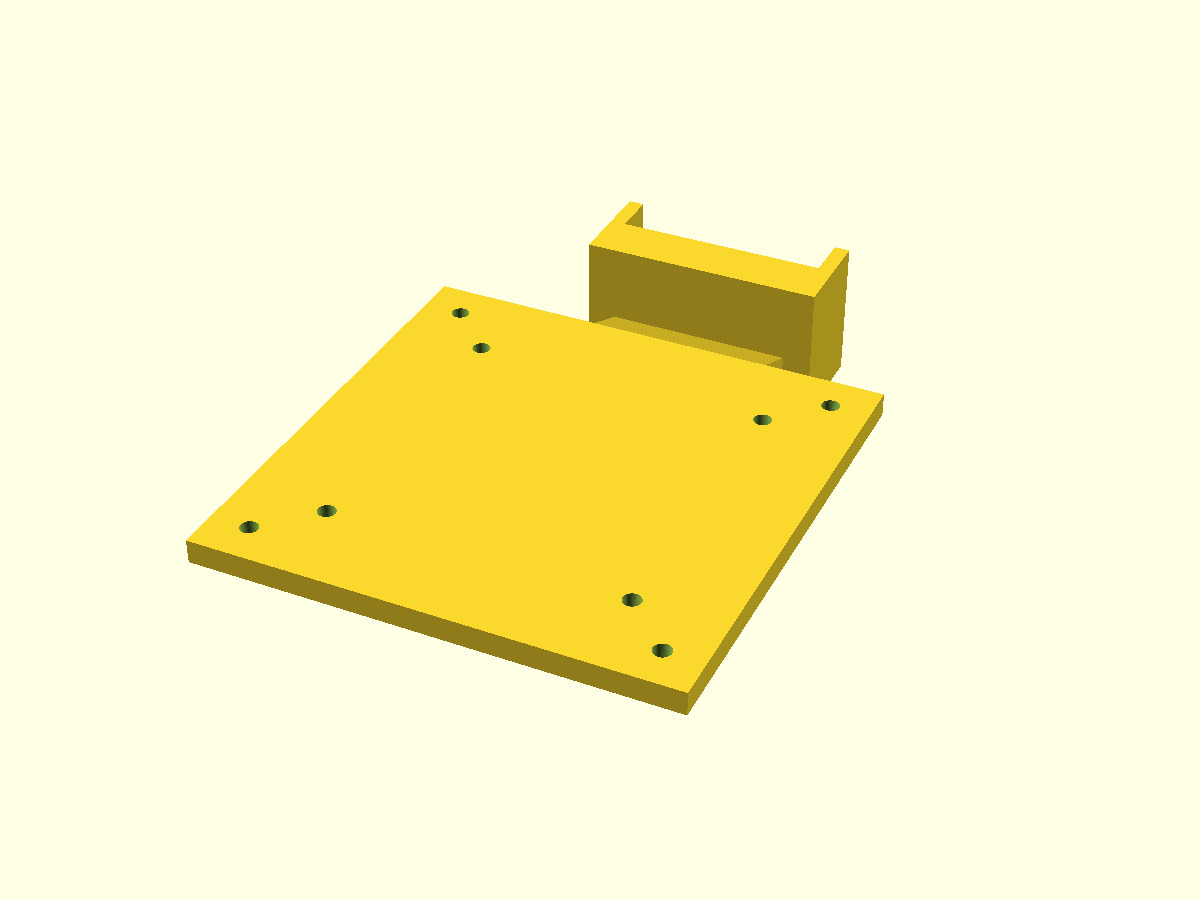
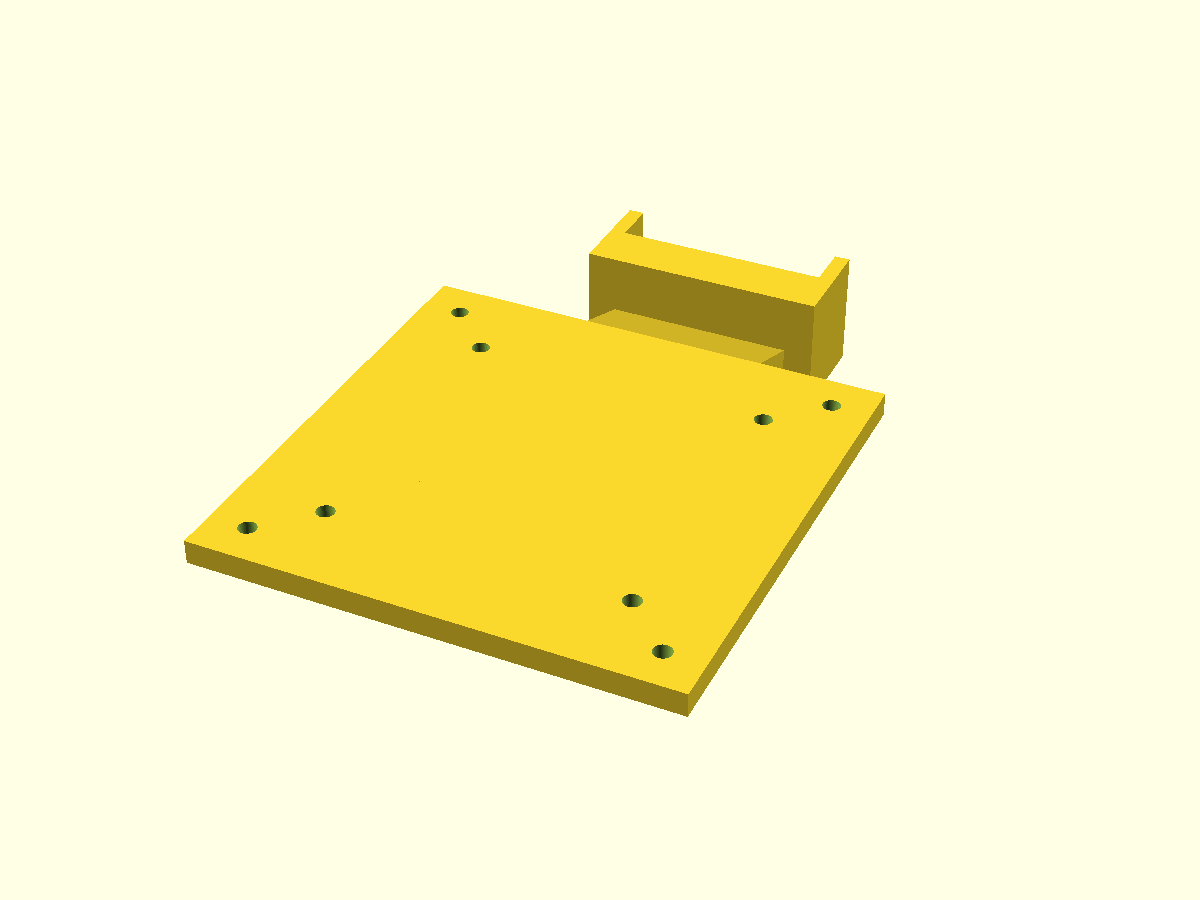
fix: reduce clamp pad depth to 30 mm

diff --git a/docs/tx02-vesa-cradle-r2.html b/docs/tx02-vesa-cradle-r2.html
@@ -2284,7 +2284,7 @@ html&gt;body{padding:0}&lt;/style&gt;
         &lt;div class=&quot;dimension&quot;&gt;&lt;span&gt;灯条长度&lt;/span&gt;&lt;strong&gt;448 mm&lt;/strong&gt;&lt;/div&gt;
         &lt;div class=&quot;dimension&quot;&gt;&lt;span&gt;1S 夹具占地&lt;/span&gt;&lt;strong&gt;约 68 × 62&lt;/strong&gt;&lt;/div&gt;
         &lt;div class=&quot;dimension&quot;&gt;&lt;span&gt;底座底部平面&lt;/span&gt;&lt;strong&gt;48 mm&lt;/strong&gt;&lt;/div&gt;
-        &lt;div class=&quot;dimension&quot;&gt;&lt;span&gt;卡扣受力跨度&lt;/span&gt;&lt;strong&gt;36 mm&lt;/strong&gt;&lt;/div&gt;
+        &lt;div class=&quot;dimension&quot;&gt;&lt;span&gt;卡扣受力跨度&lt;/span&gt;&lt;strong&gt;30 mm&lt;/strong&gt;&lt;/div&gt;
         &lt;div class=&quot;dimension&quot;&gt;&lt;span&gt;承托片厚度&lt;/span&gt;&lt;strong&gt;14 mm&lt;/strong&gt;&lt;/div&gt;
         &lt;div class=&quot;dimension&quot;&gt;&lt;span&gt;防横移挡肩&lt;/span&gt;&lt;strong&gt;4 × 12 mm&lt;/strong&gt;&lt;/div&gt;
         &lt;div class=&quot;dimension&quot;&gt;&lt;span&gt;挡肩内间距&lt;/span&gt;&lt;strong&gt;55 mm&lt;/strong&gt;&lt;/div&gt;
@@ -2406,7 +2406,7 @@ html&gt;body{padding:0}&lt;/style&gt;
 
         &lt;text class=&quot;dim-label&quot; x=&quot;131&quot; y=&quot;35&quot; text-anchor=&quot;middle&quot;&gt;60&lt;/text&gt;
         &lt;text class=&quot;dim-label&quot; x=&quot;207&quot; y=&quot;110&quot;&gt;14&lt;/text&gt;
-        &lt;text class=&quot;dim-label&quot; x=&quot;149&quot; y=&quot;144&quot; text-anchor=&quot;middle&quot;&gt;36&lt;/text&gt;
+        &lt;text class=&quot;dim-label&quot; x=&quot;149&quot; y=&quot;144&quot; text-anchor=&quot;middle&quot;&gt;30&lt;/text&gt;
         &lt;text class=&quot;dim-label&quot; x=&quot;181&quot; y=&quot;242&quot; text-anchor=&quot;middle&quot; transform=&quot;rotate(-90 181 242)&quot;&gt;120&lt;/text&gt;
 
         &lt;text class=&quot;technical-label&quot; x=&quot;186&quot; y=&quot;30&quot; text-anchor=&quot;start&quot;&gt;1S 灯条&lt;/text&gt;
@@ -2440,7 +2440,7 @@ html&gt;body{padding:0}&lt;/style&gt;
         &lt;/g&gt;
 
         &lt;text class=&quot;dim-label&quot; x=&quot;220&quot; y=&quot;301&quot; text-anchor=&quot;middle&quot;&gt;63&lt;/text&gt;
-        &lt;text class=&quot;dim-label&quot; x=&quot;302&quot; y=&quot;236&quot;&gt;36&lt;/text&gt;
+        &lt;text class=&quot;dim-label&quot; x=&quot;302&quot; y=&quot;236&quot;&gt;30&lt;/text&gt;
         &lt;text class=&quot;technical-label&quot; x=&quot;220&quot; y=&quot;24&quot; text-anchor=&quot;middle&quot;&gt;VESA&lt;/text&gt;
         &lt;text class=&quot;technical-label&quot; x=&quot;151&quot; y=&quot;236&quot; text-anchor=&quot;end&quot;&gt;承托片&lt;/text&gt;
 
@@ -2452,7 +2452,7 @@ html&gt;body{padding:0}&lt;/style&gt;
           &lt;rect class=&quot;part-accent&quot; x=&quot;0&quot; y=&quot;174&quot; width=&quot;338&quot; height=&quot;4&quot;&gt;&lt;/rect&gt;
 
           &lt;line class=&quot;dim-line&quot; x1=&quot;356&quot; y1=&quot;56&quot; x2=&quot;356&quot; y2=&quot;178&quot; marker-start=&quot;url(#arrow-top)&quot; marker-end=&quot;url(#arrow-top)&quot;&gt;&lt;/line&gt;
-          &lt;text class=&quot;dim-label&quot; x=&quot;371&quot; y=&quot;122&quot; text-anchor=&quot;middle&quot;&gt;36&lt;/text&gt;
+          &lt;text class=&quot;dim-label&quot; x=&quot;371&quot; y=&quot;122&quot; text-anchor=&quot;middle&quot;&gt;30&lt;/text&gt;
           &lt;text class=&quot;technical-label&quot; x=&quot;8&quot; y=&quot;25&quot;&gt;前卡扣&lt;/text&gt;
           &lt;text class=&quot;technical-label&quot; x=&quot;8&quot; y=&quot;222&quot;&gt;后压脚&lt;/text&gt;
           &lt;text class=&quot;detail-note&quot; x=&quot;169&quot; y=&quot;250&quot; text-anchor=&quot;middle&quot;&gt;蓝色承托片落在前后卡扣之间&lt;/text&gt;
@@ -2477,7 +2477,7 @@ html&gt;body{padding:0}&lt;/style&gt;
           &lt;/g&gt;
 
           &lt;text class=&quot;dim-label&quot; x=&quot;230&quot; y=&quot;301&quot; text-anchor=&quot;middle&quot;&gt;63&lt;/text&gt;
-          &lt;text class=&quot;dim-label&quot; x=&quot;318&quot; y=&quot;236&quot;&gt;36&lt;/text&gt;
+          &lt;text class=&quot;dim-label&quot; x=&quot;318&quot; y=&quot;236&quot;&gt;30&lt;/text&gt;
           &lt;text class=&quot;technical-label&quot; x=&quot;230&quot; y=&quot;24&quot; text-anchor=&quot;middle&quot;&gt;VESA&lt;/text&gt;
           &lt;text class=&quot;technical-label&quot; x=&quot;161&quot; y=&quot;236&quot; text-anchor=&quot;end&quot;&gt;承托片&lt;/text&gt;
         &lt;/svg&gt;
@@ -2496,7 +2496,7 @@ html&gt;body{padding:0}&lt;/style&gt;
             &lt;rect class=&quot;part-accent&quot; x=&quot;0&quot; y=&quot;56&quot; width=&quot;338&quot; height=&quot;4&quot;&gt;&lt;/rect&gt;
             &lt;rect class=&quot;part-accent&quot; x=&quot;0&quot; y=&quot;174&quot; width=&quot;338&quot; height=&quot;4&quot;&gt;&lt;/rect&gt;
             &lt;line class=&quot;dim-line&quot; x1=&quot;356&quot; y1=&quot;56&quot; x2=&quot;356&quot; y2=&quot;178&quot; marker-start=&quot;url(#arrow-top-mobile-detail)&quot; marker-end=&quot;url(#arrow-top-mobile-detail)&quot;&gt;&lt;/line&gt;
-            &lt;text class=&quot;dim-label&quot; x=&quot;371&quot; y=&quot;122&quot; text-anchor=&quot;middle&quot;&gt;36&lt;/text&gt;
+            &lt;text class=&quot;dim-label&quot; x=&quot;371&quot; y=&quot;122&quot; text-anchor=&quot;middle&quot;&gt;30&lt;/text&gt;
             &lt;text class=&quot;technical-label&quot; x=&quot;8&quot; y=&quot;25&quot;&gt;前卡扣&lt;/text&gt;
             &lt;text class=&quot;technical-label&quot; x=&quot;8&quot; y=&quot;222&quot;&gt;后压脚&lt;/text&gt;
             &lt;text class=&quot;detail-note&quot; x=&quot;169&quot; y=&quot;250&quot; text-anchor=&quot;middle&quot;&gt;蓝色承托片落在前后卡扣之间&lt;/text&gt;
@@ -2535,7 +2535,7 @@ html&gt;body{padding:0}&lt;/style&gt;
           &lt;/tr&gt;
           &lt;tr&gt;
             &lt;th scope=&quot;row&quot;&gt;一体承托臂&lt;/th&gt;
-            &lt;td data-label=&quot;建议值&quot;&gt;63 × 36 × 14 mm，挡肩外沿与承托片齐平，落在左右卡扣受力面之间&lt;/td&gt;
+            &lt;td data-label=&quot;建议值&quot;&gt;63 × 30 × 14 mm，挡肩外沿与承托片齐平，落在左右卡扣受力面之间&lt;/td&gt;
             &lt;td data-label=&quot;依据&quot;&gt;设计值&lt;/td&gt;
           &lt;/tr&gt;
           &lt;tr&gt;
@@ -2601,7 +2601,7 @@ html&gt;body{padding:0}&lt;/style&gt;
       legTopY: 101.5,
       armWidth: 63,
       armHeight: 14,
-      armDepth: 36,
+      armDepth: 30,
       guideTabWidth: 4,
       guideTabHeight: 12,
       baseWidth: 68,

diff --git a/docs/design-brief.md b/docs/design-brief.md
@@ -18,29 +18,29 @@
 下屏 VESA 孔
   -> 120 x 120 x 6 mm 转接立板（与承托臂同一打印件）
   -> 48 mm 宽立柱向右倾斜，直接并入转接板左侧
-  -> 63 x 36 x 14 mm 一体承托片
+  -> 63 x 30 x 14 mm 一体承托片
   -> 原装底座前后卡扣从承托片外侧夹住
   -> 小米原装磁吸供电夹具（L 型铰链 + 弧形压脚）
   -> 1S 灯条
 ```
 
-承托片的作用是模拟一段足够短、足够厚的显示器上沿。它不能比底座底部平面更长，否则前卡扣会压在承托片上面而无法向下扣住；当前按底部平面约 `48 mm`、承托片约 `36 mm` 设计，让承托片正好落在前卡扣与后压脚的内侧受力面之间。左侧前卡扣和右侧后压脚承担夹紧，右后脚主要提供平衡。
+承托片的作用是模拟一段足够短、足够厚的显示器上沿。它不能比底座底部平面更长，否则前卡扣会压在承托片上面而无法向下扣住；当前按底部平面约 `48 mm`、承托片约 `30 mm` 设计，让承托片正好落在前卡扣与后压脚的内侧受力面之间。左侧前卡扣和右侧后压脚承担夹紧，右后脚主要提供平衡。
 
 承托片左右两端各增加一条向上延伸的挡肩，形成开放式 U 形限位，包住原装底座左右侧面，防止底座在受力或调节角度时横移。挡肩与承托臂一次打印成形，内间距扩大到 `55 mm`，相对 54 mm 底座给单边约 `0.5 mm` 装配余量，降低 3D 打印公差导致装不进去的风险。
 
 1S 底座不能简化成方块。按说明书安装图和实物侧视轮廓，顶部横条水平压在显示器上沿，前压条和后弧形压脚向下展开，形成 L 型夹角夹住屏幕；灯体通过顶部铰链和磁吸/pogo pin 模块连接。
 
-R2 方向约定：侧视图中 VESA 转接板位于立柱右侧，蓝色一体承托臂向右展开，原装底座也位于右侧。VESA 转接板和承托臂是同一个打印件，立柱向右倾斜并直接并入转接板左侧，VESA 板右沿与立柱根部齐平；立柱和 VESA 板之间补齐连续承力腹板，并延伸到 VESA 板底部，避免出现细颈、薄片或悬空过渡。原先两根斜挡条、中间托板和浅 U 槽取消；立柱左沿与承托片齐平，承托片宽度 `63 mm`、前后长度 `36 mm`、厚度 `14 mm`，由原装底座直接夹住。
+R2 方向约定：侧视图中 VESA 转接板位于立柱右侧，蓝色一体承托臂向右展开，原装底座也位于右侧。VESA 转接板和承托臂是同一个打印件，立柱向右倾斜并直接并入转接板左侧，VESA 板右沿与立柱根部齐平；立柱和 VESA 板之间补齐连续承力腹板，并延伸到 VESA 板底部，避免出现细颈、薄片或悬空过渡。原先两根斜挡条、中间托板和浅 U 槽取消；立柱左沿与承托片齐平，承托片宽度 `63 mm`、前后长度 `30 mm`、厚度 `14 mm`，由原装底座直接夹住。
 
 取消中间托板和 U 槽的目的不是单纯减件，而是让原装底座恢复原本的工作方式：前后卡扣包住承托片，而不是让承托片伸到卡扣下面。承托片直接从立柱顶端连续展开，不再另做向下外凸的过渡块；承托臂仍需承担水平悬伸和夹紧载荷，因此不能继续沿用原来较窄的水平梁。
 
 首次验证参数：
 
 - 底座底部平面：约 `48 mm`。
-- 承托片前后长度：约 `36 mm`，必须短于底座底部平面。
-- 一体承托片：`63 × 36 × 14 mm`，两侧挡肩外沿与承托片齐平，挡肩内间距 `55 mm`。
+- 承托片前后长度：约 `30 mm`，必须短于底座底部平面。
+- 一体承托片：`63 × 30 × 14 mm`，两侧挡肩外沿与承托片齐平，挡肩内间距 `55 mm`。
 - VESA 转接板：`120 × 120 × 6 mm`，真实 `Ø4.5 mm` 通孔，兼容 75 / 100，与承托臂同一打印件。
-- 水平后伸：按位置调整，末端承托片保持 `36 mm`。
+- 水平后伸：按位置调整，末端承托片保持 `30 mm`。
 - 打印材料：PETG 打试片；PAHT-CF、PET-CF 或 MJF PA12 做正式件。
 
 以上卡口参数来自社区模型和照片推算，正式打印前必须实测。

diff --git a/README.md b/README.md
@@ -4,7 +4,7 @@
 
 1. 打印一块 `120 × 120 × 6 mm`、带真实 75 / 100 通孔的 VESA 转接板，并与承托臂做成同一个零件；
 2. 立柱向右倾斜并直接并入 VESA 转接板左侧，再向反方向伸出一体承托臂，不增加独立连接脚或第二层托板；
-3. 承托臂末端缩成 `63 × 36 × 14 mm` 的承托片，挡肩外沿与承托片两侧齐平；
+3. 承托臂末端缩成 `63 × 30 × 14 mm` 的承托片，挡肩外沿与承托片两侧齐平；
 4. 小米原装磁吸供电夹具的前卡扣和后弧形压脚从承托片前后外侧夹住它，灯条、供电和调角结构全部保留。
 
 本项目的硬约束是保留小米原装夹具底座。1S 灯条通过底座供电，灯条本体虽然有两个触点，但不能把底座拆掉后直接给灯条接电。
@@ -35,7 +35,7 @@
 
 - 原装夹具整体保留，不拆、不改电路、不直接顶 pogo pin。
 - VESA 转接板本身就是打印件，与蓝色承托臂在同一模型内一次成形；立柱向右倾斜并入 VESA 板左侧，VESA 板右沿与立柱根部齐平，两者之间用连续承力腹板补强，不在红色区域形成额外凸边。
-- 承托片前后长度约 `36 mm`，正好铺在前卡扣与后压脚的内侧受力面之间；左侧前卡扣和右侧后压脚承担夹紧，右后脚主要起平衡作用。
+- 承托片前后长度约 `30 mm`，正好铺在前卡扣与后压脚的内侧受力面之间；左侧前卡扣和右侧后压脚承担夹紧，右后脚主要起平衡作用。
 - 承托片左右各向上延伸一条 `4 × 12 mm` 的挡肩，挡肩外沿与承托片外沿齐平并一次成形；两条挡肩内间距为 `55 mm`，相对 54 mm 底座给单边约 `0.5 mm` 装配余量。
 - 不再使用 U 槽定位；原装底座的夹紧力直接作用在承托片前后边缘，承托片两侧留出足够空间供卡扣包住。
 - 试片只需验证承托片长度、厚度和夹紧稳定性，不把原装塑料件硬撑变形。
@@ -83,7 +83,7 @@
 
 1. 完成 [docs/measurement-sheet.csv](docs/measurement-sheet.csv)。
 2. 用卡尺实测顶横条宽度、中央限位段深度、前压条到后压脚的总开口、后压脚弧长、铰链位置和灯条重心。
-3. 先只打印 `63 × 36 × 14 mm` 承托片试片，在 PETG 下检查前卡扣是否能落到板外侧并稳定夹紧。
+3. 先只打印 `63 × 30 × 14 mm` 承托片试片，在 PETG 下检查前卡扣是否能落到板外侧并稳定夹紧。
 4. 根据实测底座底部平面、前后卡扣内侧距离和旋转时的晃动修正承托片长度。
 5. 完整件打印后先空载锁在 VESA 位，检查 TX02 立杆剩余孔位、线缆和上下屏避让。
 

diff --git a/cad/README.md b/cad/README.md
@@ -6,7 +6,7 @@
 - `tx02_integrated_mount.scad`：当前正式参数模型，`120 × 120 × 6 mm` VESA 板、真实 Ø4.5 mm 通孔，以及一体立柱、承力腹板、承托片和挡肩。
 - `pole_1qtr_head.scad`：早期 1/4 英寸圆杆头部概念，后续需要改成与承托片匹配的接口。
 
-当前 TX02 VESA / 承托臂一体件参数和三维关系先记录在 [`docs/tx02-vesa-cradle-r2.html`](../docs/tx02-vesa-cradle-r2.html)。VESA 转接板也是本项目自行打印的零件，与立柱和承托臂在同一实体内。三维模型按 1S 的顶部横条、前卡扣、后弧形压脚和弹簧铰链绘制原装夹具。实测原装底座后，再把底部平面、前后卡扣内侧距离、承托片 `63 × 36 × 14 mm` 和接口固化为新的 OpenSCAD 参数。
+当前 TX02 VESA / 承托臂一体件参数和三维关系先记录在 [`docs/tx02-vesa-cradle-r2.html`](../docs/tx02-vesa-cradle-r2.html)。VESA 转接板也是本项目自行打印的零件，与立柱和承托臂在同一实体内。三维模型按 1S 的顶部横条、前卡扣、后弧形压脚和弹簧铰链绘制原装夹具。实测原装底座后，再把底部平面、前后卡扣内侧距离、承托片 `63 × 30 × 14 mm` 和接口固化为新的 OpenSCAD 参数。
 
 ## 使用方式
 

diff --git a/exports/README.md b/exports/README.md
@@ -5,18 +5,18 @@ Generated from `cad/tx02_integrated_mount.scad` with OpenSCAD 2026.10.11.
 ## Files
 
 - `tx02_integrated_mount.stl` - complete one-piece VESA adapter.
-- `tx02_fit_test.stl` - 63 x 36 x 14 mm clamp-pad coupon with the 55 mm guide gap.
+- `tx02_fit_test.stl` - 63 x 30 x 14 mm clamp-pad coupon with the 55 mm guide gap.
 - `tx02_integrated_mount_preview.png` - quick OpenSCAD preview.
 - `tx02_fit_test_preview.png` - quick OpenSCAD preview of the fit coupon.
 - `tx02_integrated_mount_summary.json` - exported geometry summary.
 
 ## Verified geometry
 
-- Bounding box: `120.0 x 173.5 x 36.0 mm`.
+- Bounding box: `120.0 x 173.5 x 30.0 mm`.
 - VESA plate: `120 x 120 x 6 mm`.
 - VESA patterns: 75 mm and 100 mm, `Ø4.5 mm` through holes.
 - OpenSCAD result: manifold, `NoError`, 2,156 facets.
-- STL volume: about `205.3 cm³`.
+- STL volume: about `192.25 cm³`.
 
 ## Print order
 

diff --git a/docs/measurement-sheet.md b/docs/measurement-sheet.md
@@ -33,8 +33,8 @@
 
 ### 承托片试片
 
-1. 首件打印 `63 × 36 × 14 mm` 承托片局部，不打印整套悬臂。
-2. 以底座底部平面约 `48 mm` 为上限，首版承托片长度按 `36 mm` 验证。
+1. 首件打印 `63 × 30 × 14 mm` 承托片局部，不打印整套悬臂。
+2. 以底座底部平面约 `48 mm` 为上限，首版承托片长度按 `30 mm` 验证。
 3. 前卡扣必须落到承托片前侧外部，后弧形压脚必须落到后侧外部。
 4. 装上灯条后轻推中心，原装底座不应在承托片上左右晃或绕竖轴自由转动。
 5. 若明显晃动，先调整承托片前后长度和厚度；若卡扣盖在板上面，直接缩短承托片。

diff --git a/hardware/bom.md b/hardware/bom.md
@@ -4,7 +4,7 @@
 
 | 项目 | 数量 | 说明 |
 |---|---:|---|
-| TX02 VESA / 承托臂一体打印件 | 1 | `120 × 120 × 6 mm` VESA 板、真实 M4 通孔、一体立柱/腹板、`63 × 36 × 14 mm` 承托片与 `55 mm` 内间距挡肩 |
+| TX02 VESA / 承托臂一体打印件 | 1 | `120 × 120 × 6 mm` VESA 板、真实 M4 通孔、一体立柱/腹板、`63 × 30 × 14 mm` 承托片与 `55 mm` 内间距挡肩 |
 | 承托片试片 | 1 | 先单独验证底座前卡扣能从外侧扣住承托片，不要直接打印完整件 |
 | M4 螺丝 | 4 | 长度按打印 VESA 转接板、垫片和显示器螺纹深度计算 |
 | M4 平垫圈 | 4 | 分散塑料件压力 |

diff --git a/docs/installation.md b/docs/installation.md
@@ -5,7 +5,7 @@
 不要直接打印完整悬臂。先单独验证承托片：
 
 ```text
-63 x 36 x 14 mm 承托片试片
+63 x 30 x 14 mm 承托片试片
 承托片前后长度短于底座底部平面
 前卡扣和后压脚都能落到承托片外侧
 ```
